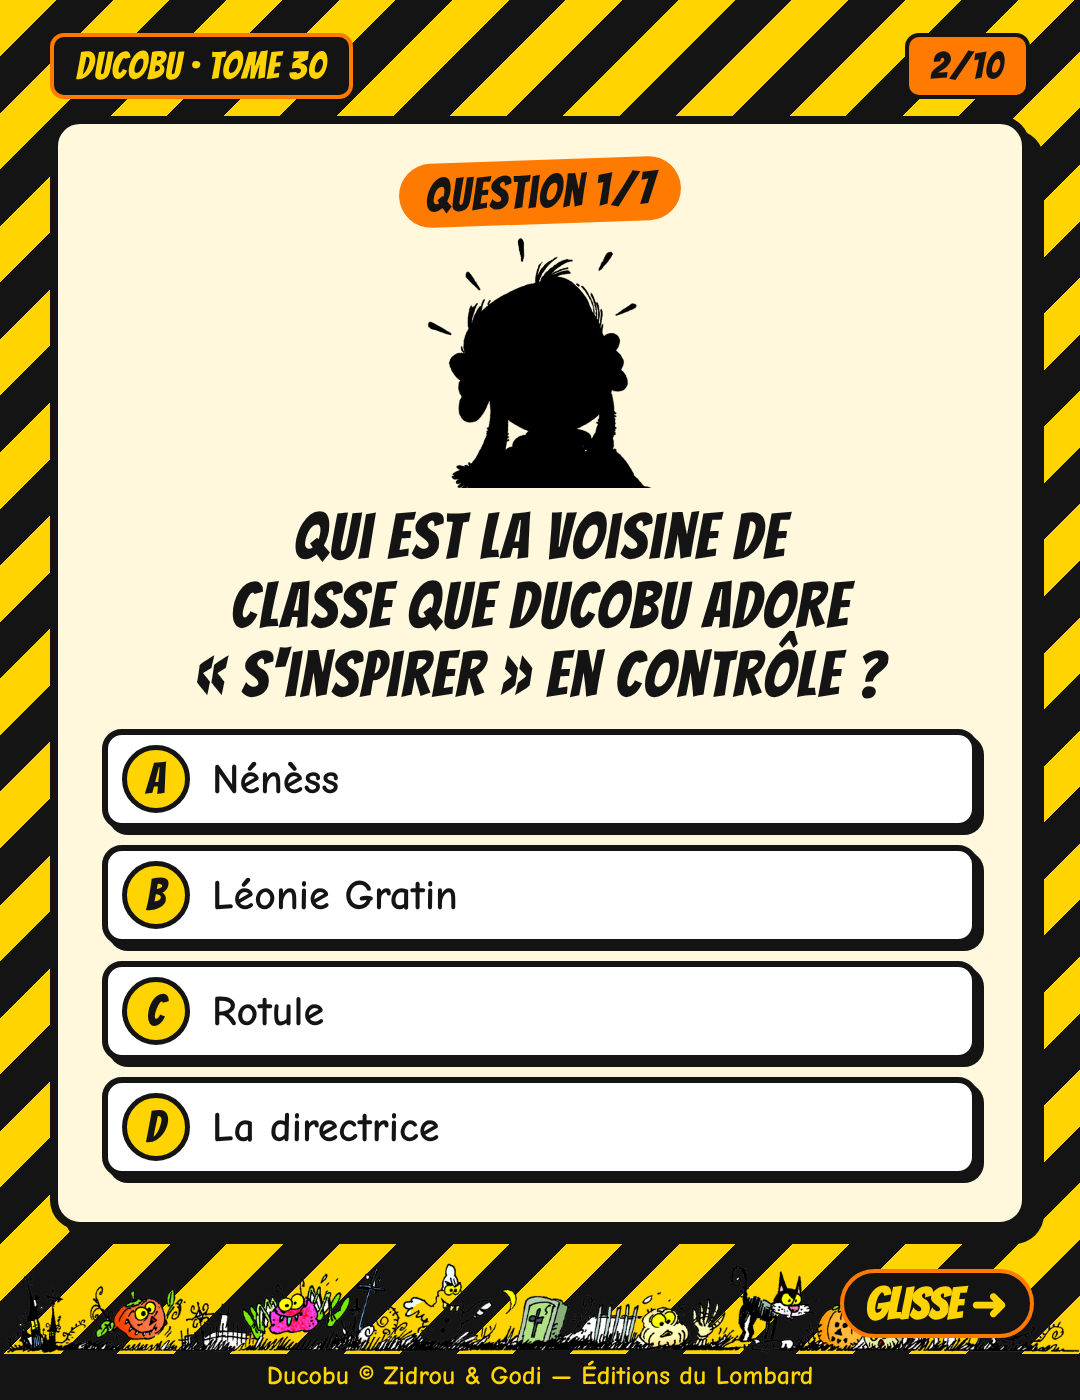
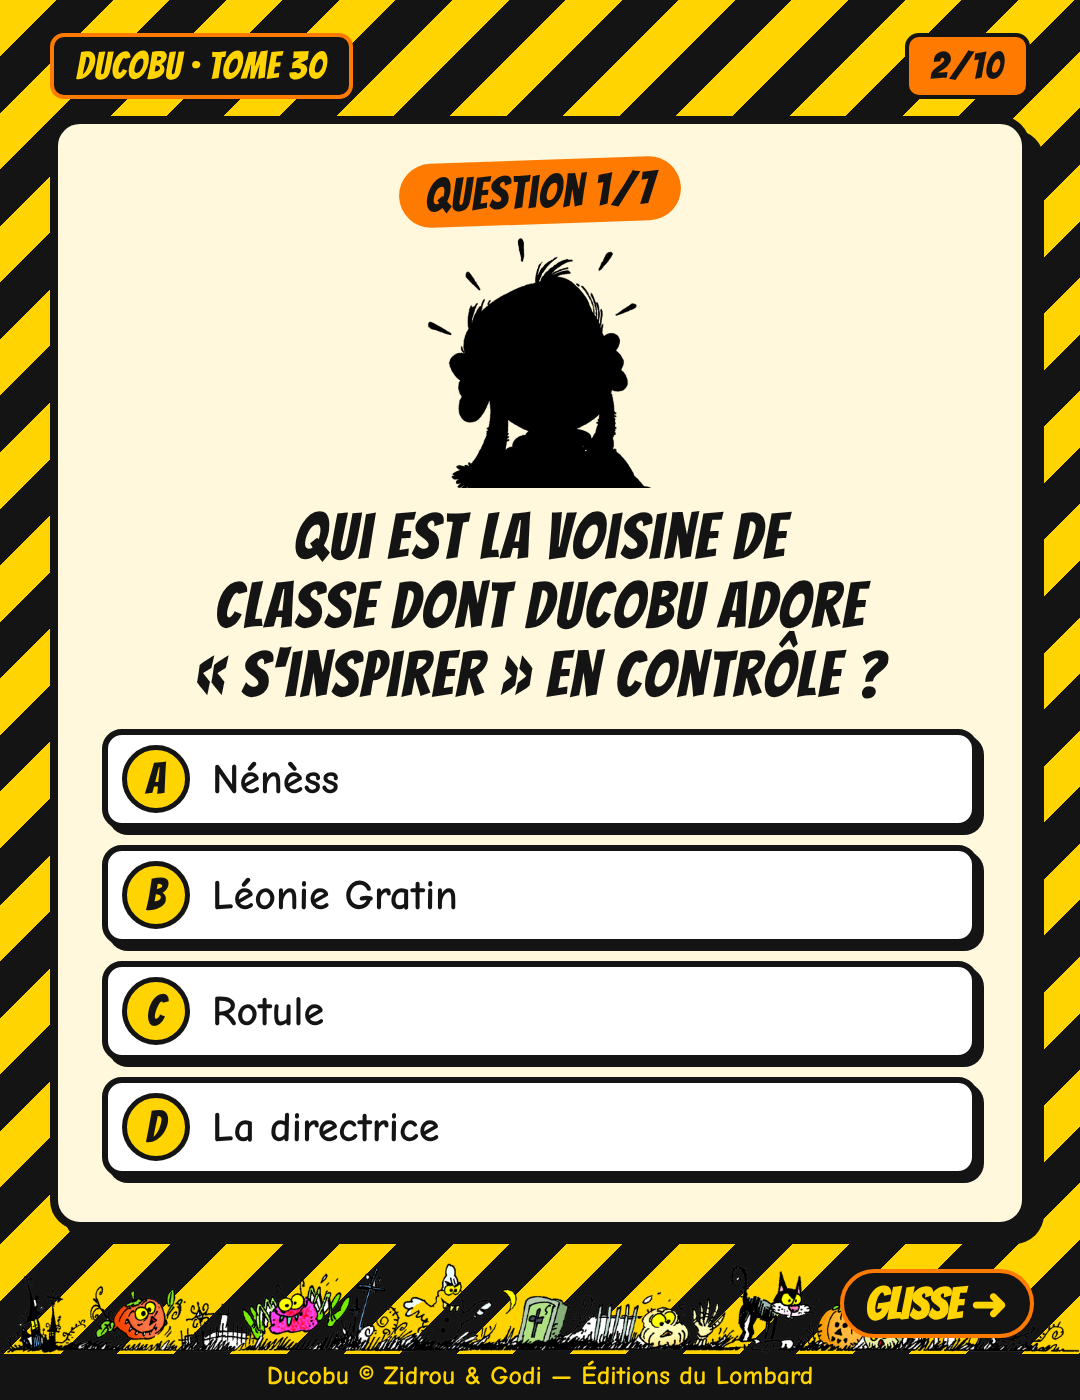
Carousel: fix question 1 wording (dont)
Claude-Session: https://claude.ai/code/session_01DoP3j673bFwD32w75jBGz2

Changed region(s): [[0.1833, 0.3993, 0.7944, 0.4607]]

diff --git a/carrousel-instagram/out/carrousel-10-slides/html/slide-02.html b/carrousel-instagram/out/carrousel-10-slides/html/slide-02.html
@@ -38,7 +38,7 @@ h2{font-size:64px;line-height:1.08}
 <div class="card">
   <span class="k">Question 1/7</span>
   <img src="../../../../quiz-ducobu/assets/leonie.png" class="sil" style="height:250px;width:auto;margin-top:14px;max-width:700px;object-fit:contain" alt="">
-  <h2 class="q">Qui est la voisine de classe que Ducobu adore «&nbsp;s'inspirer&nbsp;» en contrôle&nbsp;?</h2>
+  <h2 class="q">Qui est la voisine de classe dont Ducobu adore «&nbsp;s'inspirer&nbsp;» en contrôle&nbsp;?</h2>
   <div class="ans"><div class="a"><span class="letter">A</span><span>Nénèss</span></div><div class="a"><span class="letter">B</span><span>Léonie Gratin</span></div><div class="a"><span class="letter">C</span><span>Rotule</span></div><div class="a"><span class="letter">D</span><span>La directrice</span></div></div>
 </div>
 <img class="frise" src="../../../../quiz-ducobu/assets/halloween-frise1.png" alt="">
